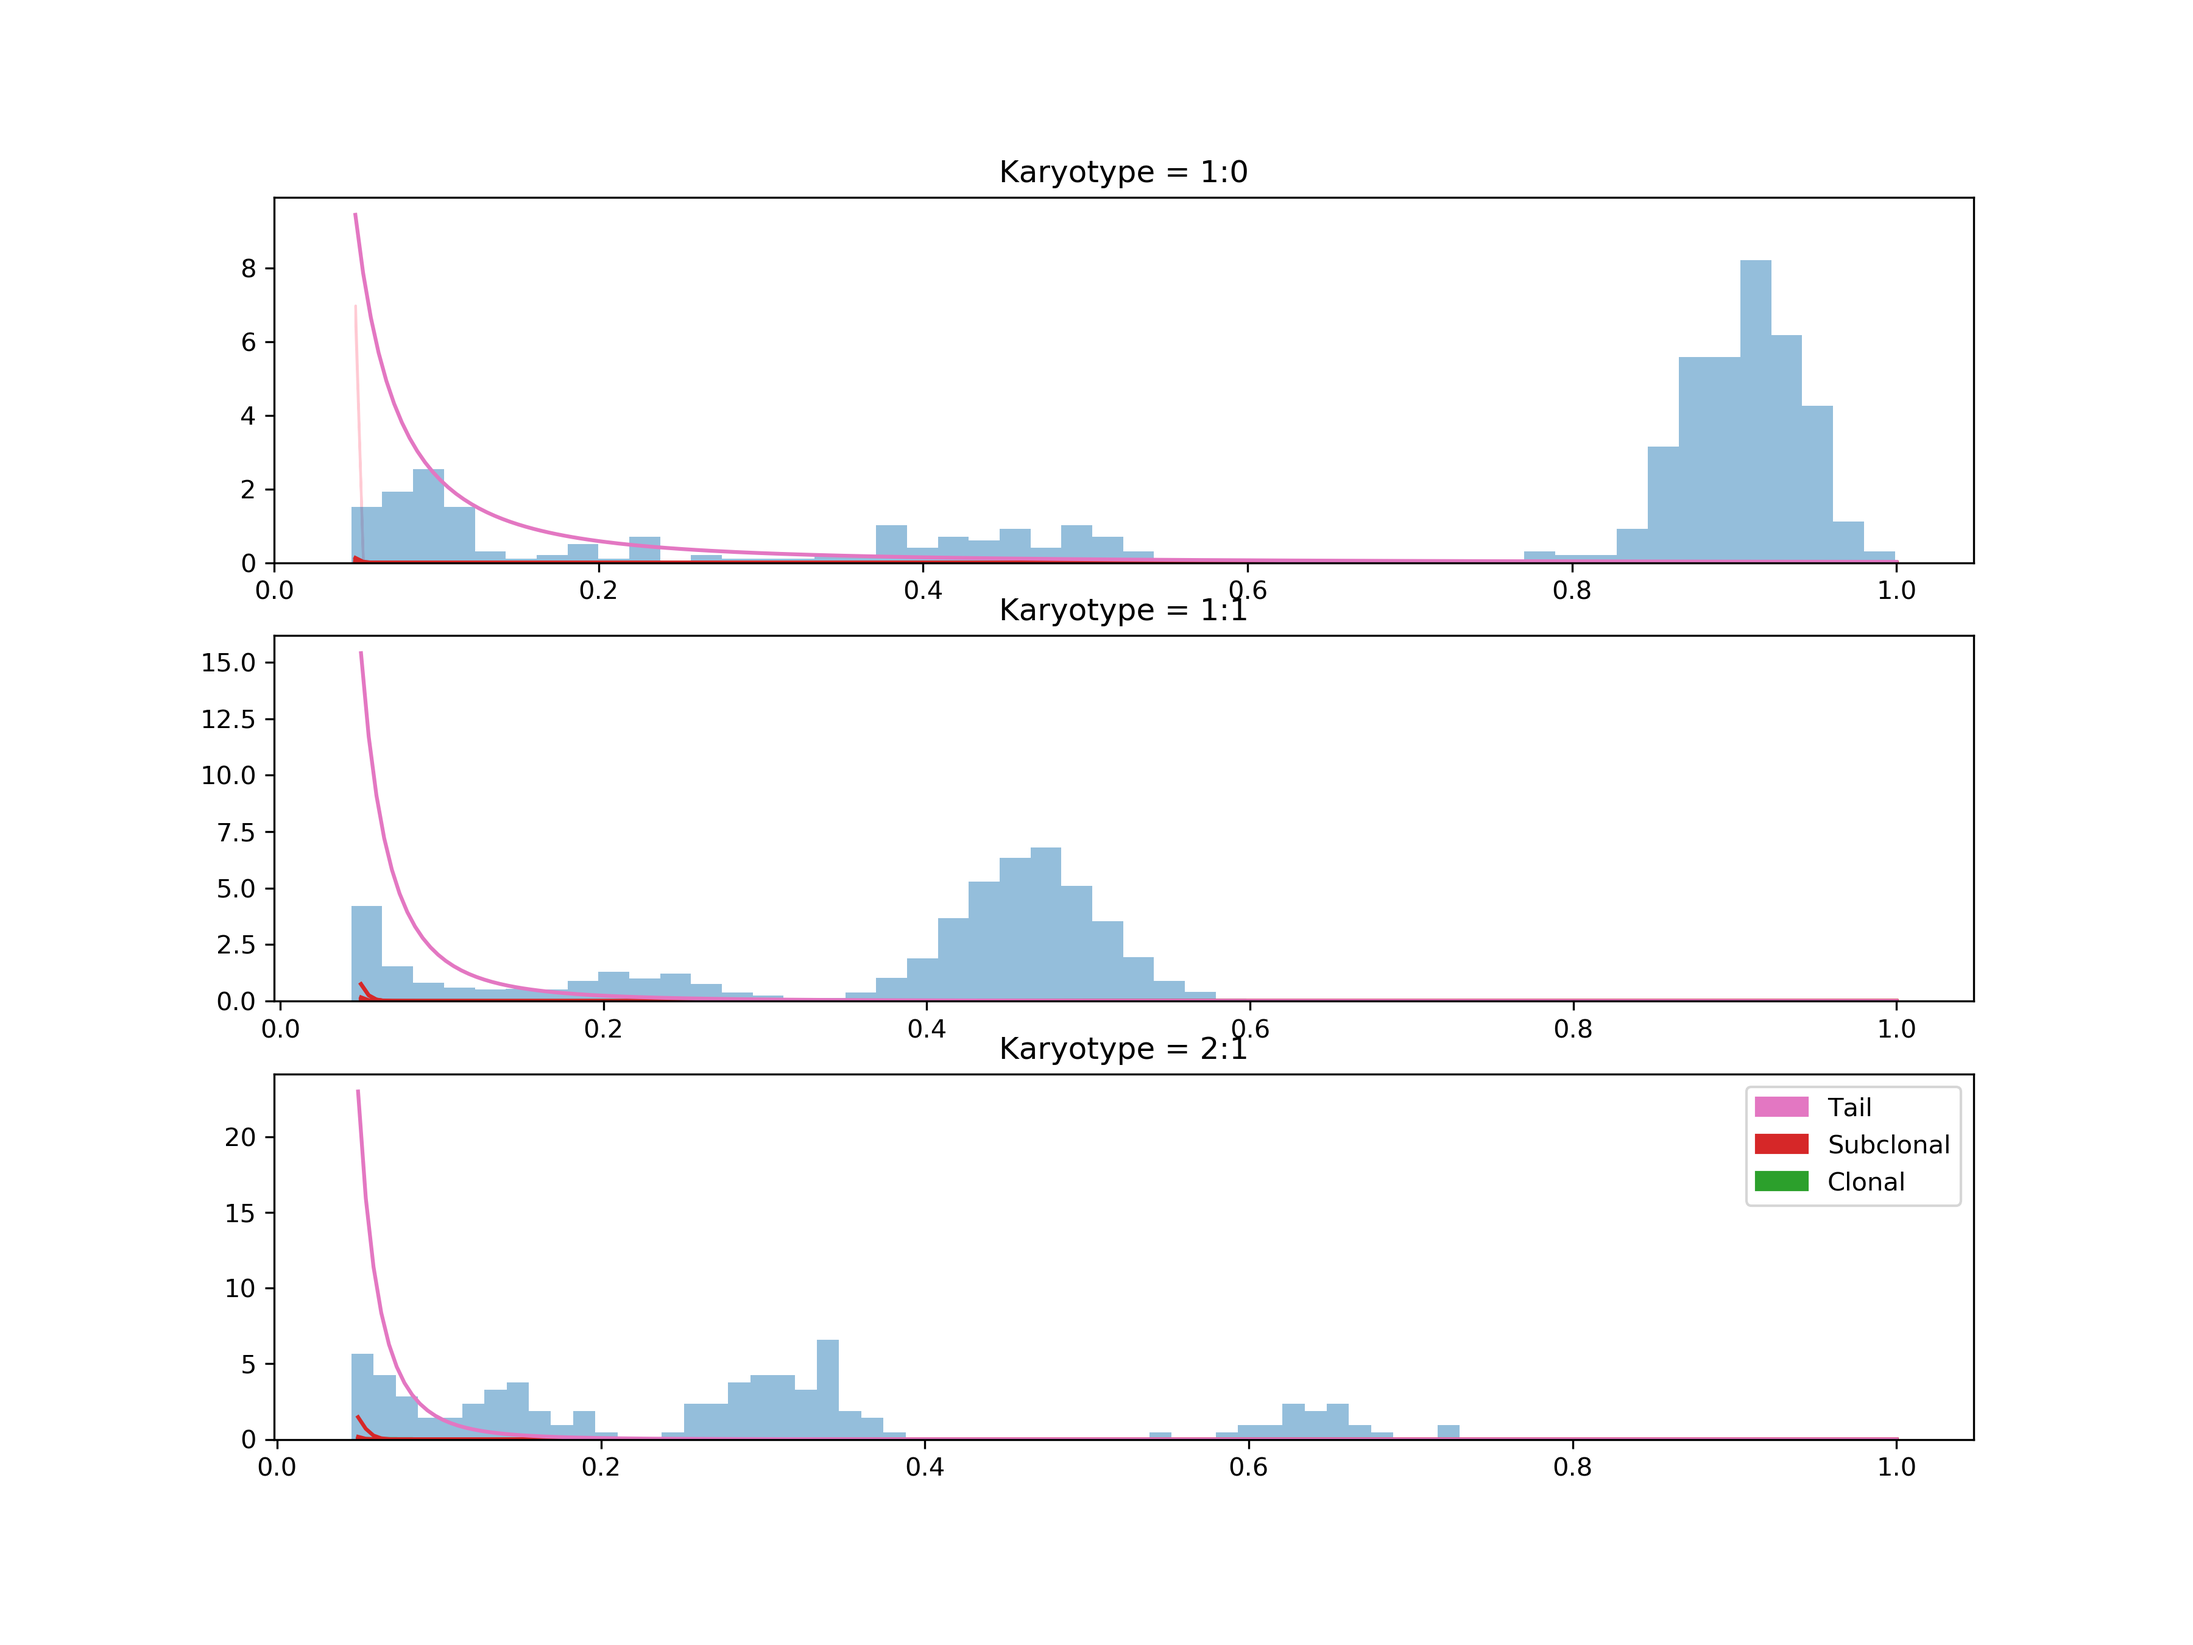
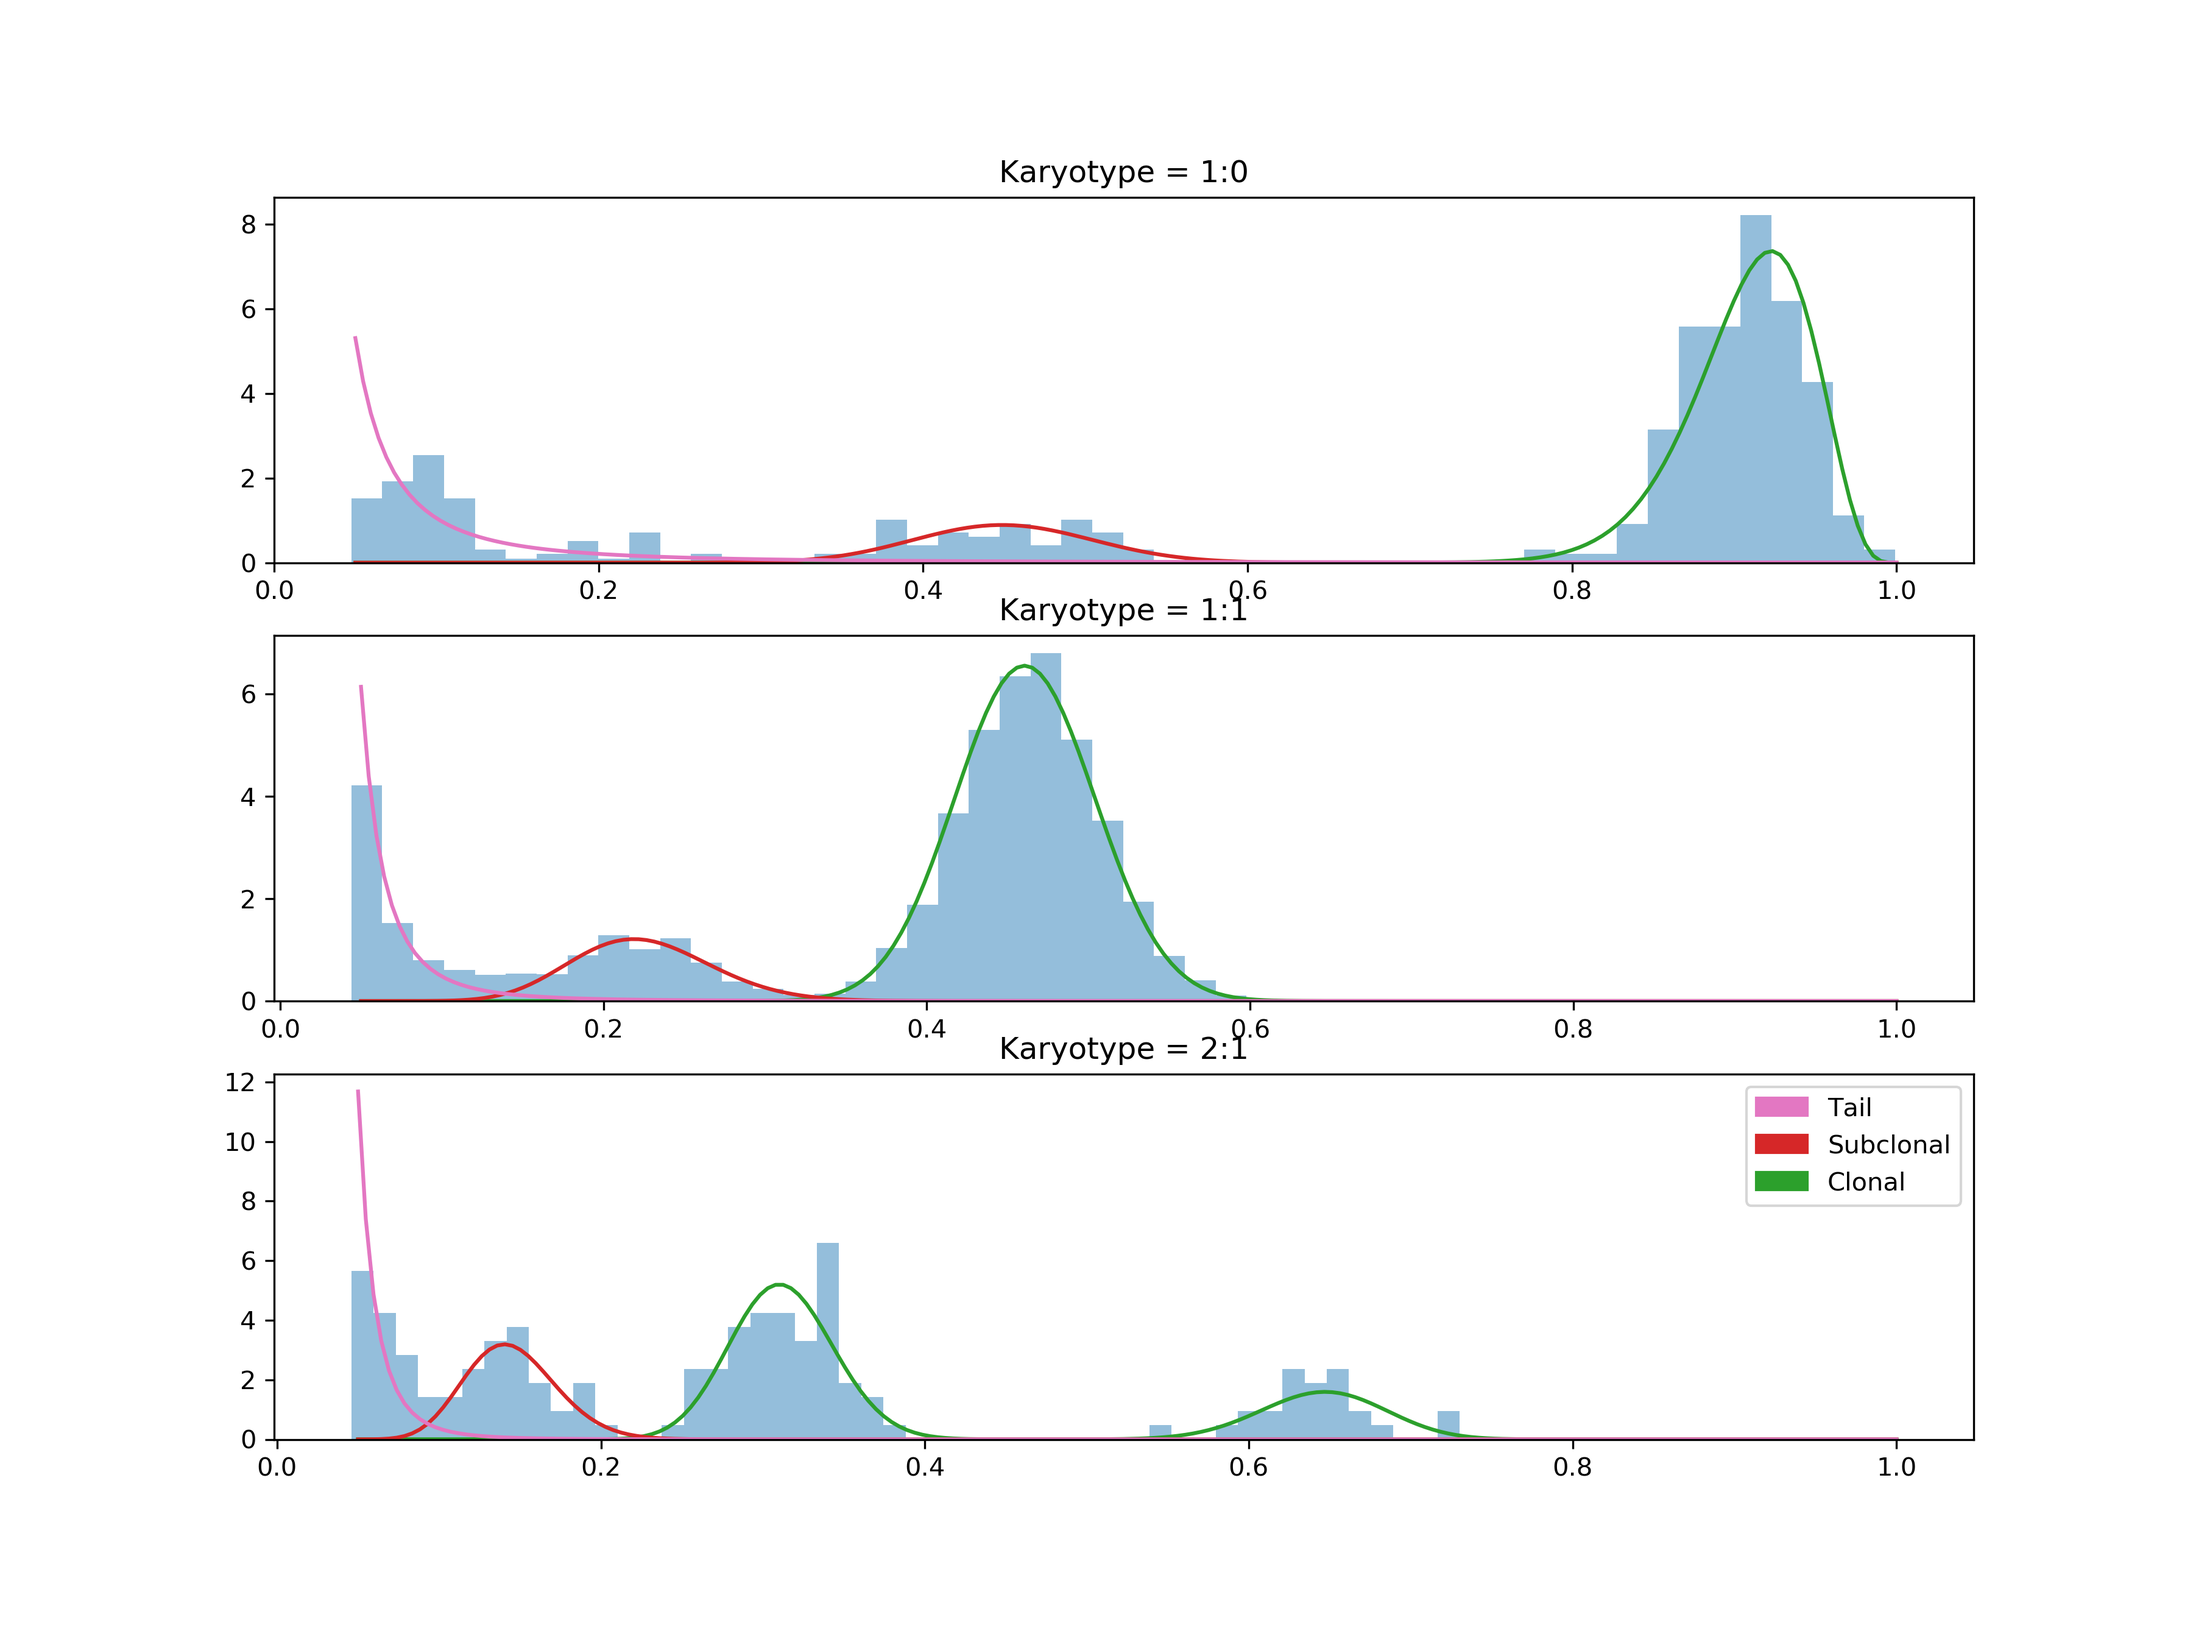
bugfix

diff --git a/mobster/guide_mobster.py b/mobster/guide_mobster.py
@@ -64,8 +64,7 @@ def guide(data, K=1, tail=1, truncated_pareto = True, purity=0.96, clonal_beta_v
     if K != 0:
         if 2 in counts_clones.keys():
 
-            k2 = torch.cat([theoretical_clonal_means[kr] * purity for kr in range(len(karyos)) if theoretical_num_clones[kr] == 2]).reshape([counts_clones[2],2])
-
+            k2 = torch.cat([theoretical_clonal_means[kr] * purity for kr in range(len(karyos)) if theoretical_num_clones[kr] == 2]).reshape([counts_clones[2], 2])
 
             k_means_2 = ((torch.amin(k2, dim = 1) - 0.01) / (K +1) ).reshape([1, counts_clones[2]]) * torch.arange(1, K + 1).reshape([K,1]) + 0.02
         else:
@@ -93,7 +92,10 @@ def guide(data, K=1, tail=1, truncated_pareto = True, purity=0.96, clonal_beta_v
             pyro.sample('weights_{}'.format(kr), dist.Delta(weights_param_2[idx2]).to_event(1))
 
             # Mean parameter when the number of clonal picks is 2
-            a_2_theo = torch.cat([theoretical_clonal_means[i] for i in index_2]).reshape([2, counts_clones[2]])
+            a_2_theo = torch.cat([theoretical_clonal_means[i] for i in index_2]).reshape([counts_clones[2], 2])
+
+            a_2_theo = torch.transpose(a_2_theo,0,1)
+
 
             # Number of trials parameter when the number of clonal picks is 2
             b_2_theo = torch.ones([2, len(index_2)]) * number_of_trials_clonal_mean
@@ -107,16 +109,24 @@ def guide(data, K=1, tail=1, truncated_pareto = True, purity=0.96, clonal_beta_v
                 # Number of trials  for the subclones
                 b_2_k = torch.ones([K, len(index_2)]) * number_of_trials_k
 
+                upper_lim_a2 = torch.cat([torch.amax(k2, dim = 1).reshape([1,counts_clones[2]]),
+                    torch.tensor([0.99999]).repeat([1,counts_clones[2]]),
+                                          torch.amin(k2, dim = 1).reshape([1,counts_clones[2]]).repeat([K,1])], dim = 0)
                 a21 = pyro.param('a_2',
                                  torch.cat((a_2_theo, a_2_k)).reshape([2 + K, len(index_2)]),
-                                 constraint=constraints.unit_interval)
+                                 constraint=constraints.interval(1e-8,upper_lim_a2))
+
                 a22 = pyro.param('b_2',
                                  torch.cat((b_2_theo, b_2_k)).reshape([2 + K, len(index_2)]),
                                  constraint=constraints.positive)
             else:
+
+
                 a21 = pyro.param('a_2',
                                  a_2_theo.reshape([2 + K, len(index_2)]),
                                  constraint=constraints.unit_interval)
+
+
                 a22 = pyro.param('b_2',
                                  b_2_theo.reshape([2 + K, len(index_2)]),
                                  constraint=constraints.positive)
@@ -143,10 +153,13 @@ def guide(data, K=1, tail=1, truncated_pareto = True, purity=0.96, clonal_beta_v
                 a_1_k = torch.max(a_1_k,torch.tensor([0.0001]))
 
                 b_1_k = torch.ones([K, len(index_1)]) * number_of_trials_k
+                upper_lim_a1 = torch.cat([torch.tensor([0.99999]).repeat([1,counts_clones[1]]),k1.reshape([1,counts_clones[1]]).repeat([K,1])], dim = 0)
 
                 a11 = pyro.param('a_1',
                                  torch.cat((a_1_theo, a_1_k)).reshape([1 + K, len(index_1)]),
-                                 constraint=constraints.unit_interval)
+                                 constraint=constraints.interval(1e-8, upper_lim_a1))
+
+
                 a12 = pyro.param('b_1',
                                  torch.cat((b_1_theo, b_1_k)).reshape([1 + K, len(index_1)]),
                                  constraint=constraints.positive)

diff --git a/mobster/utils_mobster.py b/mobster/utils_mobster.py
@@ -69,16 +69,16 @@ def compute_entropy(params, tail):
 
 
 
-def format_parameters_for_export(data, params, tail):
+def format_parameters_for_export(data, params, tail, K):
     res = {k : 0 for k in data.keys()}
     theoretical_num_clones = get_theo_clones(data)
     clones_count = get_clones_counts(theoretical_num_clones)
     for i, k in enumerate(res):
-        res[k] = format_parameters_for_export_aux(data, params,k, i, theoretical_num_clones, clones_count, tail)
+        res[k] = format_parameters_for_export_aux(data, params,k, i, theoretical_num_clones, clones_count, tail, K)
     return res
 
 
-def format_parameters_for_export_aux(data, params,k, i, theo_clones, counts_clone, tail):
+def format_parameters_for_export_aux(data, params,k, i, theo_clones, counts_clone, tail, K):
 
     j = counts_clone[i]
     if theo_clones[i] == 2:
@@ -95,7 +95,7 @@ def format_parameters_for_export_aux(data, params,k, i, theo_clones, counts_clon
         mixture_weights = np.insert(mixture_weights, 0, tail_weights[0])
 
 
-    ca, order_vec = rename_clusters(np.argmax(params["cluster_probs"][k].detach().numpy(), axis = 0), tail, theo_clones[i])
+    ca, order_vec = rename_clusters(np.argmax(params["cluster_probs"][k].detach().numpy(), axis = 0), tail, theo_clones[i], K)
 
     res = {"cluster_probs" : params["cluster_probs"][k].detach().numpy(),
            "cluster_assignments" : ca,
@@ -112,27 +112,28 @@ def format_parameters_for_export_aux(data, params,k, i, theo_clones, counts_clon
     return res
 
 
-def rename_clusters(x,tail, theo_c):
+def rename_clusters(x,tail, theo_c, K):
+
     res = np.empty(len(x), dtype='object')
-    uniq_clusts = np.unique(x)
     base_idx = 0
     clonal_num = 1
     subclonal_num = 1
-    order_vec = np.array([],dtype='object' )
+    order_vec = np.array([],dtype='object')
+
     ###  IDENTIFY TAIL MUTATIONS ###
     if tail == 1:
         res[x == 0] = "Tail"
-        np.append(order_vec,"Tail")
+        np.append(order_vec, "Tail")
         base_idx += 1
 
     ### IDENTIFY CLONAL MUTATIONS ###
     for i in range(base_idx, base_idx + theo_c):
         res[x == i] = "C" + str(clonal_num)
-        np.append(order_vec,"C" + str(clonal_num))
+        np.append(order_vec, "C" + str(clonal_num))
         clonal_num += 1
 
     ### IDENTIFY SUBCLONAL MUTATIONS ###
-    for i in range(base_idx + theo_c,len(uniq_clusts)):
+    for i in range(base_idx + theo_c,base_idx + theo_c + K):
         res[x == i] = "S" + str(subclonal_num)
         np.append(order_vec, "S" + str(subclonal_num))
         subclonal_num += 1

diff --git a/mobster/model_mobster.py b/mobster/model_mobster.py
@@ -104,6 +104,7 @@ def model(data, K=1, tail=1, truncated_pareto = True, purity=0.96,  number_of_tr
                 # Number of sucessful trials for beta means prior
                 bm_12 = torch.tensor(
                     flatten_list([theoretical_clonal_means[kr].tolist(), k_means.tolist()])) * number_of_trials_clonal_mean
+
                 # Number of unsucessful trials for beta means prior
                 bm_22 = number_of_trials_clonal_mean - bm_12
                 # As we are writing a bayesian model, beta clonal means prior are actually around
@@ -157,9 +158,9 @@ def model(data, K=1, tail=1, truncated_pareto = True, purity=0.96,  number_of_tr
                                    weights_2, K + theoretical_num_clones[kr],
                                    data[karyos[kr]])
                     if truncated_pareto:
-                        pareto = BoundedPareto(torch.min(data[karyos[kr]]), alpha, torch.amin(theoretical_clonal_means[kr])).log_prob(data[karyos[kr]])
+                        pareto = BoundedPareto(torch.min(data[karyos[kr]]) - 1e-5, alpha, torch.amin(theoretical_clonal_means[kr])).log_prob(data[karyos[kr]])
                     else:
-                        pareto = dist.Pareto(torch.min(data[karyos[kr]]), alpha).log_prob(data[karyos[kr]])
+                        pareto = dist.Pareto(torch.min(data[karyos[kr]]) - 1e-5, alpha).log_prob(data[karyos[kr]])
 
                     pyro.factor("lik_{}".format(kr), log_sum_exp(final_lk(pareto, beta, tail_probs)).sum())
 
@@ -170,9 +171,9 @@ def model(data, K=1, tail=1, truncated_pareto = True, purity=0.96,  number_of_tr
                                    weights_1, K + theoretical_num_clones[kr],
                                    data[karyos[kr]])
                     if truncated_pareto:
-                        pareto = BoundedPareto(torch.min(data[karyos[kr]]), alpha, torch.amin(theoretical_clonal_means[kr])).log_prob(data[karyos[kr]])
+                        pareto = BoundedPareto(torch.min(data[karyos[kr]]) - 1e-5, alpha, torch.amin(theoretical_clonal_means[kr])).log_prob(data[karyos[kr]])
                     else:
-                        pareto = dist.Pareto(torch.min(data[karyos[kr]]), alpha).log_prob(data[karyos[kr]])
+                        pareto = dist.Pareto(torch.min(data[karyos[kr]]) - 1e-5, alpha).log_prob(data[karyos[kr]])
                     pyro.factor("lik_{}".format(kr), log_sum_exp(final_lk(pareto, beta, tail_probs)).sum())
 
             else:

diff --git a/mobster/plotting_mobster.py b/mobster/plotting_mobster.py
@@ -57,16 +57,10 @@ def plot_results(data, inf_res, bins=50, output = "results.png",fig_height = 4, 
             nall = mut.theo_allele_list[kr]
             x = np.linspace(0.05, 1, 200)
             p = pareto.pdf(x, alpha * nall, scale=params["tail_scale"]) * assignment_probs[0]
-            ci = 2 * (1/params["tail_noise"])
-            p1 = pareto.pdf(x, np.abs(alpha - ci) * nall, scale=params["tail_scale"]) * assignment_probs[0]
-            p2 = pareto.pdf(x, np.abs(alpha + ci)  * nall, scale=params["tail_scale"]) * assignment_probs[0]
             if nKar == 1:
                 axs.plot(x, p, linewidth=1.5, color="tab:pink")
-
-                axs.fill_between(x, p1, p2, color='pink', alpha=.8)
             else:
                 axs[i].plot(x, p, linewidth=1.5, color="tab:pink")
-                axs[i].fill_between(x, p1, p2, color='pink', alpha=.8)
         if drivers is not None:
             drivers_mut = data_mut[drivers[kr]]
 

diff --git a/setup.py b/setup.py
@@ -5,8 +5,8 @@ from setuptools import setup
 #        return f.read()
 
 setup(name='HMOBSTER',
-      version='0.0.28',
-      description='Copy Number genotyping from single cell RNA sequencing',
+      version='0.0.31',
+      description='VAF clustering for multiple karyotypes',
       url='https://github.com/Militeee/hmobster',
       author='Salvatore Milite',
       author_email='militesalvatore@gmail.com',

diff --git a/mobster/interface_mobster.py b/mobster/interface_mobster.py
@@ -75,7 +75,7 @@ def fit_mobster(data, K, tail=1, truncated_pareto = True, purity=0.96, number_of
     BIC = ms.BIC(data, params_dict, tail, truncated_pareto)
     ICL = ms.ICL(data, params_dict, tail, truncated_pareto)
 
-    params_dict = format_parameters_for_export(data, params_dict, tail)
+    params_dict = format_parameters_for_export(data, params_dict, tail,K)
 
 
 

diff --git a/mobster/stopping_criteria.py b/mobster/stopping_criteria.py
@@ -2,7 +2,8 @@ import numpy as np
 def ELBO_stopping_criteria(old, new, e=0.01):
     diff_ELBO = np.abs(old - new)
     cutoff = e * np.abs(old)
-    if diff_ELBO < cutoff:
+
+    if diff_ELBO <= cutoff :
         return True
     return False
 
